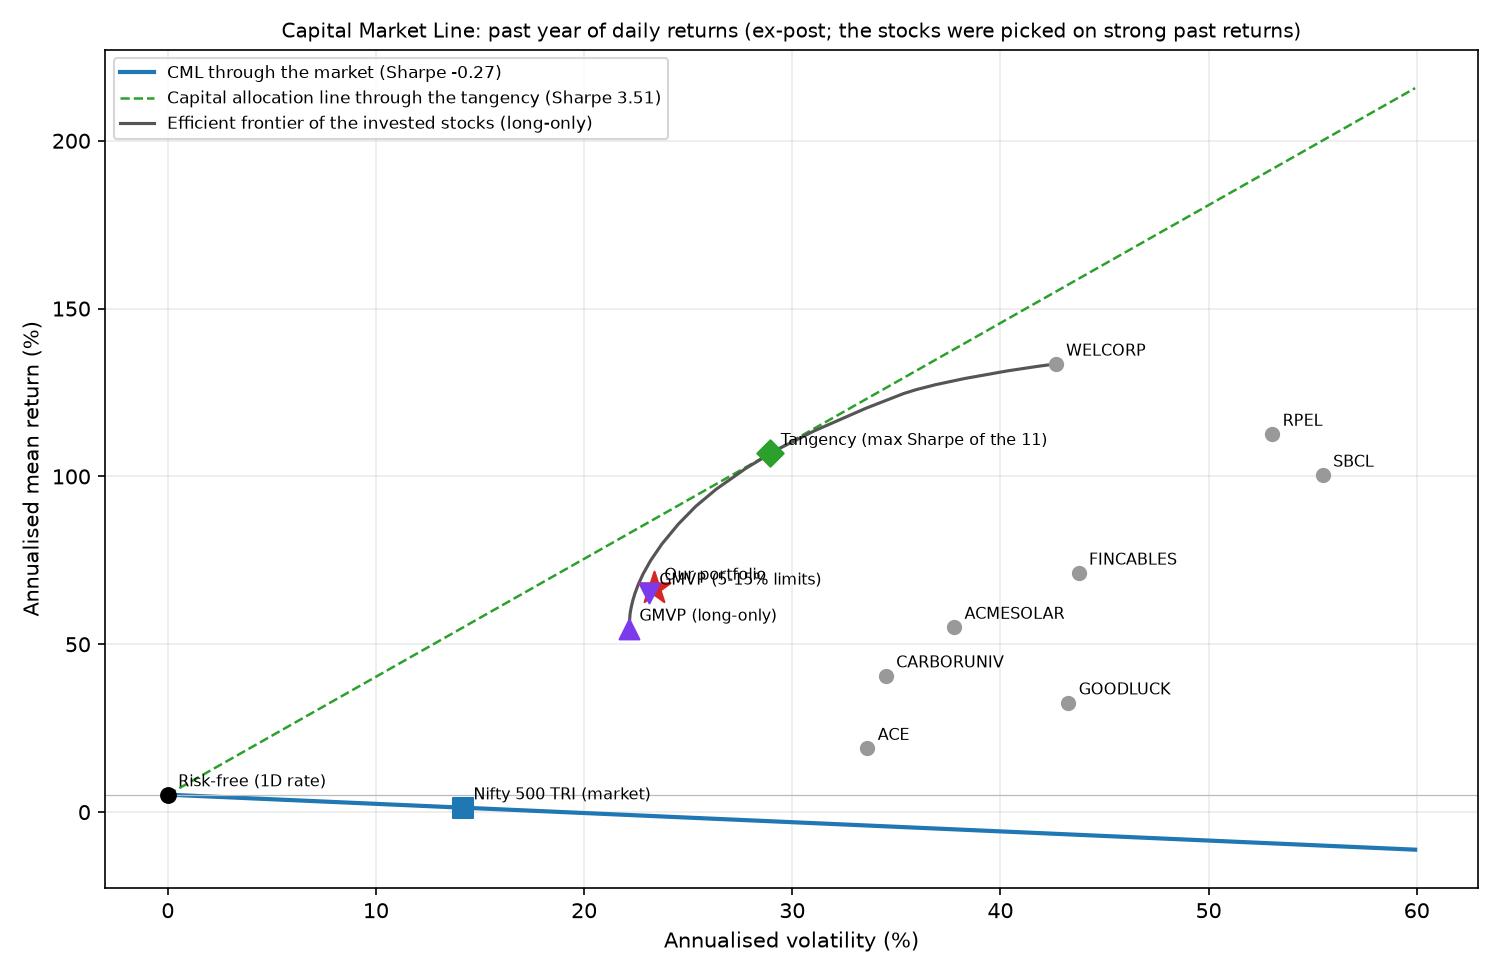
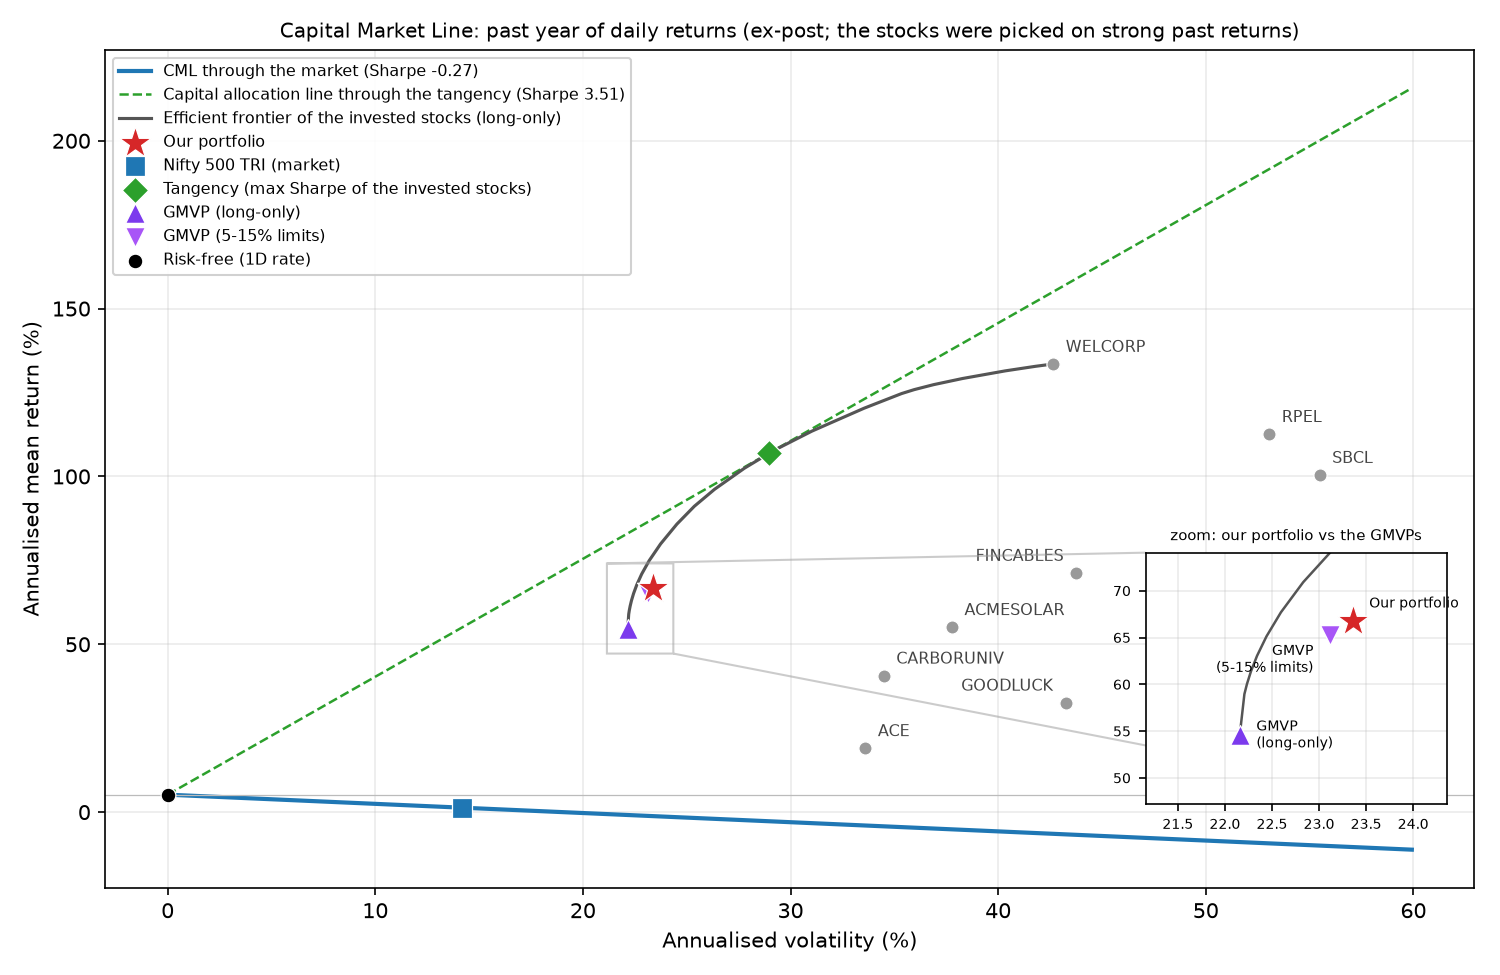
CML chart: no overlapping labels
Key portfolios (ours, market, tangency, both GMVPs, risk-free) are named in
the legend; stock names are placed at the first offset that overlaps no
marker, label or the inset; a zoomed inset (in the emptiest corner)
separates our portfolio from the two GMVPs, which sit within a point of it.

Claude-Session: https://claude.ai/code/session_018SrKZ3YP1T4SHJR1stpujJ

diff --git a/performance.py b/performance.py
@@ -21,7 +21,7 @@ tangency portfolio (volatility, mean return, Sharpe, effective number of stocks 
 
 CML: the line from the risk-free rate through the market portfolio (Nifty 500 TRI) in (sigma, E[r])
 space, E[r] = r_f + (E[r_m] - r_f) / sigma_m x sigma. Plotted with the invested stocks, the long-only
-efficient frontier of the 11, its tangency (maximum-Sharpe) portfolio, and our portfolio.
+efficient frontier of the invested stocks, its tangency (maximum-Sharpe) portfolio, and our portfolio.
 """
 
 import logging
@@ -187,7 +187,7 @@ def cml_points(returns: pd.DataFrame, port: pd.Series, fx: pd.DataFrame,
     m_mu = float(mkt.mean() * TRADING_DAYS_PER_YEAR)
     points.append({"name": "Nifty 500 TRI (market)", "kind": "market", "sigma": m_sigma, "expected_return": m_mu})
     w_t = tangency_portfolio(mu, cov, rf)
-    points.append({"name": "Tangency (max Sharpe of the 11)", "kind": "tangency",
+    points.append({"name": "Tangency (max Sharpe of the invested stocks)", "kind": "tangency",
                    "sigma": float(np.sqrt(w_t @ cov @ w_t)), "expected_return": float(w_t @ mu)})
     w_g = gmvp(cov)
     w_gb = gmvp(cov, WEIGHT_MIN_PCT / 100, WEIGHT_MAX_PCT / 100)
@@ -235,19 +235,91 @@ def plot_cml(cml: Dict[str, object], path=CML_PNG) -> None:
             label="Efficient frontier of the invested stocks (long-only)")
     styles = {"stock": ("o", "#999999", 40), "portfolio": ("*", "#d62728", 260), "market": ("s", "#1f77b4", 90),
               "tangency": ("D", "#2ca02c", 80), "risk_free": ("o", "#000000", 50),
-              "gmvp": ("^", "#7c3aed", 90), "gmvp_bounded": ("v", "#7c3aed", 90)}
-    for _, r in pts.iterrows():
-        marker, color, size = styles[r["kind"]]
-        ax.scatter(r["sigma"] * 100, r["expected_return"] * 100, marker=marker, color=color, s=size, zorder=3)
-        ax.annotate(r["name"], (r["sigma"] * 100, r["expected_return"] * 100), textcoords="offset points",
-                    xytext=(5, 4), fontsize=7.5)
+              "gmvp": ("^", "#7c3aed", 90), "gmvp_bounded": ("v", "#a855f7", 90)}
+
+    def draw_points(axis, legend: bool) -> None:
+        for _, r in pts.iterrows():
+            marker, color, size = styles[r["kind"]]
+            key = r["kind"] != "stock"
+            axis.scatter(r["sigma"] * 100, r["expected_return"] * 100, marker=marker, color=color, s=size,
+                         zorder=4 if r["kind"] == "portfolio" else 3, edgecolors="white", linewidths=0.6,
+                         label=r["name"] if (legend and key) else None)
+
+    draw_points(ax, legend=True)
+    inset_box = None
+    # Zoomed inset on our portfolio and the GMVPs, which sit within a point or two of each other
+    close = pts[pts["kind"].isin(["portfolio", "gmvp", "gmvp_bounded"])]
+    if len(close) > 1:
+        # In the emptiest corner of the chart (fewest stock markers under it)
+        corners = {"lower right": [0.76, 0.10, 0.22, 0.30], "lower right, wide": [0.70, 0.08, 0.28, 0.30],
+                   "upper right": [0.70, 0.62, 0.28, 0.30], "lower left": [0.06, 0.08, 0.28, 0.30]}
+        xl, yl = ax.get_xlim(), ax.get_ylim()
+        fx_ = (pts["sigma"] * 100 - xl[0]) / (xl[1] - xl[0])
+        fy_ = (pts["expected_return"] * 100 - yl[0]) / (yl[1] - yl[0])
+
+        def covered(b):
+            return int(((fx_ > b[0] - 0.03) & (fx_ < b[0] + b[2] + 0.03) & (fy_ > b[1] - 0.03)
+                        & (fy_ < b[1] + b[3] + 0.03)).sum())
+
+        inset = ax.inset_axes(min(corners.values(), key=covered))
+        inset.plot(frontier["sigma"] * 100, frontier["expected_return"] * 100, color="#555", lw=1.2)
+        draw_points(inset, legend=False)
+        pad_x = max(1.0, (close["sigma"].max() - close["sigma"].min()) * 100 * 0.6)
+        pad_y = max(3.0, (close["expected_return"].max() - close["expected_return"].min()) * 100 * 0.6)
+        inset.set_xlim(close["sigma"].min() * 100 - pad_x, close["sigma"].max() * 100 + pad_x)
+        inset.set_ylim(close["expected_return"].min() * 100 - pad_y, close["expected_return"].max() * 100 + pad_y)
+        offsets = {"portfolio": ((8, 5), "left", "bottom"), "gmvp_bounded": ((-8, -4), "right", "top"),
+                   "gmvp": ((8, 0), "left", "center")}
+        for _, r in close.iterrows():
+            (dx, dy), ha, va = offsets[r["kind"]]
+            inset.annotate(r["name"].replace(" (", "\n("), (r["sigma"] * 100, r["expected_return"] * 100),
+                           textcoords="offset points", xytext=(dx, dy), fontsize=6.5, ha=ha, va=va)
+        inset.tick_params(labelsize=6.5)
+        inset.set_title("zoom: our portfolio vs the GMVPs", fontsize=7)
+        inset.grid(alpha=0.25)
+        ax.indicate_inset_zoom(inset, edgecolor="#999")
+        fig.canvas.draw()
+        ext = inset.get_tightbbox(fig.canvas.get_renderer())
+        inset_box = (ext.x0, ext.y0, ext.x1, ext.y1)
+    # Key portfolios are named in the legend; stock names are placed where they overlap nothing already drawn
+    fig.canvas.draw()
+    renderer = fig.canvas.get_renderer()
+    taken = []
+    for _, r in pts.iterrows():  # every marker's screen box counts as taken
+        x, y = ax.transData.transform((r["sigma"] * 100, r["expected_return"] * 100))
+        taken.append((x - 7, y - 7, x + 7, y + 7))
+    if inset_box is not None:
+        taken.append(inset_box)
+    candidates = [(6, 4, "left", "bottom"), (6, -4, "left", "top"), (-6, 4, "right", "bottom"),
+                  (-6, -4, "right", "top"), (0, 9, "center", "bottom"), (0, -9, "center", "top"),
+                  (10, 12, "left", "bottom"), (-10, -12, "right", "top")]
+
+    def overlaps(box) -> bool:
+        return any(not (box[2] < t[0] or box[0] > t[2] or box[3] < t[1] or box[1] > t[3]) for t in taken)
+
+    for _, r in pts[pts["kind"] == "stock"].iterrows():
+        xy = (r["sigma"] * 100, r["expected_return"] * 100)
+        for dx, dy, ha, va in candidates:
+            text = ax.annotate(r["name"], xy, textcoords="offset points", xytext=(dx, dy), fontsize=7.5,
+                               ha=ha, va=va, color="#444")
+            ext = text.get_window_extent(renderer)
+            box = (ext.x0, ext.y0, ext.x1, ext.y1)
+            if not overlaps(box):
+                break
+            text.remove()
+        else:
+            text = ax.annotate(r["name"], xy, textcoords="offset points", xytext=(6, 4), fontsize=7.5, color="#444")
+            ext = text.get_window_extent(renderer)
+            box = (ext.x0, ext.y0, ext.x1, ext.y1)
+        taken.append(box)
+
     ax.set_xlabel("Annualised volatility (%)")
     ax.set_ylabel("Annualised mean return (%)")
     ax.set_title("Capital Market Line: past year of daily returns (ex-post; the stocks were picked on strong past returns)",
                  fontsize=9.5)
     ax.axhline(rf * 100, color="#bbb", lw=0.6)
     ax.grid(alpha=0.25)
-    ax.legend(fontsize=8, loc="upper left")
+    ax.legend(fontsize=7.5, loc="upper left", framealpha=0.9)
     fig.tight_layout()
     fig.savefig(path)
     plt.close(fig)
